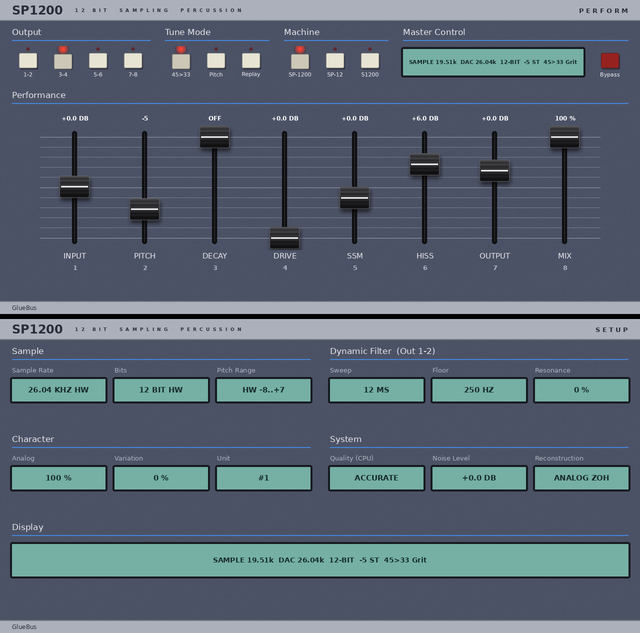
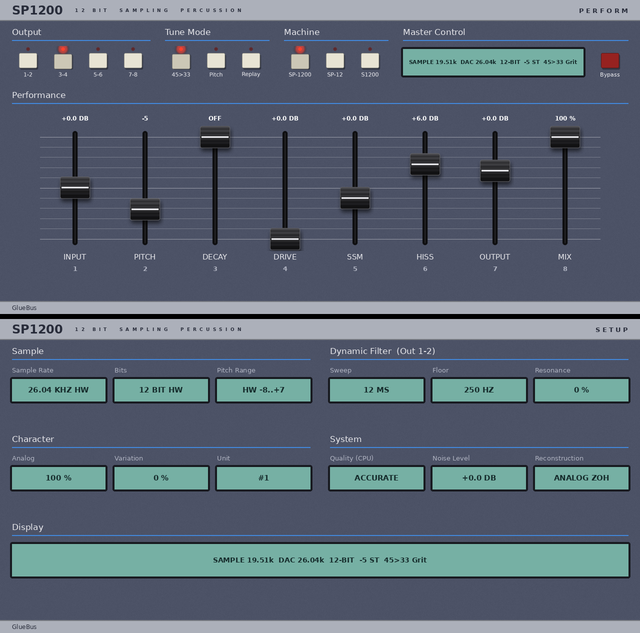
SP1200 skin: sliders as three 84 px, 128-frame filmstrip pieces
The 64-frame half strips were sliced wrongly on the MPC X (caps misplaced,
gaps, doubled caps). Use only the filmstrip format already proven on the
device (128 square frames, <= 84 px wide, knob inside its parent box).

Claude-Session: https://claude.ai/code/session_01XRqyjua6wzinB9NqNDDbhg

diff --git a/SP1200-MPC/tools/make_skin.py b/SP1200-MPC/tools/make_skin.py
@@ -80,18 +80,18 @@ def fader_frame(t):
     d.rectangle([cx - cw + 3 * s, cy - 1.5 * s, cx + cw - 3 * s, cy + 1.5 * s], fill=rgba(PRINT))   # white index line
     return im.resize((FW, FH), Image.LANCZOS)
 
-# The MPC can't load very tall images (the GPU's texture limit): a 128-frame strip of 250 x 250 frames (32 000 px)
-# lost its upper frames on the device, so the cap vanished as the slider went up. Each slider is drawn as two halves
-# (top / bottom, 125 x 125 square frames), each strip 64 frames = 8000 px, under the limit.
-FADER_FRAMES = 64
-def fader_halves():
-    HALF = FH // 2
-    top = Image.new("RGBA", (HALF, HALF * FADER_FRAMES), (0, 0, 0, 0)); bot = top.copy()
-    x0 = (HALF - FW) // 2
-    for f in range(FADER_FRAMES):
-        fr = fader_frame(f / (FADER_FRAMES - 1))
-        top.paste(fr.crop((0, 0, FW, HALF)), (x0, f * HALF)); bot.paste(fr.crop((0, HALF, FW, 2 * HALF)), (x0, f * HALF))
-    return top, bot
+# Slider graphics: only the filmstrip format already proven on the MPC X (Da Clip Pads, Da Lufs Plug): 128 square
+# frames, numFrames 127, at most 84 px wide (10 752 px tall), the knob fully inside its parent box. A 250 px wide
+# strip (32 000 px) lost its upper frames on the device, and 64-frame half strips were sliced wrongly. So each
+# slider is three stacked 84 px pieces of one fader drawing, each its own 128-frame strip bound to the same value.
+PIECE, NPIECES = 84, 3
+def fader_pieces():
+    strips = [Image.new("RGBA", (PIECE, PIECE * FRAMES), (0, 0, 0, 0)) for _ in range(NPIECES)]
+    x0 = (PIECE - FW) // 2
+    for f in range(FRAMES):
+        fr = fader_frame(f / (FRAMES - 1))
+        for k in range(NPIECES): strips[k].paste(fr.crop((0, k * PIECE, FW, (k + 1) * PIECE)), (x0, f * PIECE))
+    return strips
 
 def key_image(on, w, h, label=None, red=False):
     """A square SP-1200 key: an LED above a cream (or red) key, the label printed under it."""
@@ -151,11 +151,10 @@ def load_keys():
 P = load_keys()
 
 # ---------- layout ----------
-FW, FH = 76, 250
+FW, FH = 76, 252                 # 3 pieces x 84 px
 FS = FH
 FY = 24
 TRAVEL0, TRAVEL1 = 24, FH - 24
-HALF = FH // 2
 TABS = ["PERFORM", "SETUP"]
 SLIDERS = [("input", "INPUT"), ("pitch", "PITCH"), ("decay", "DECAY"), ("drive", "DRIVE"),
            ("ssm", "SSM"), ("hiss", "HISS"), ("output", "OUTPUT"), ("mix", "MIX")]
@@ -216,10 +215,10 @@ BG_ITEMS[T].append(("lcd", 806, 98, 360, 52, None))
 text(T, "Display", "info", 812, 103, 348, 42, 14)
 red_key(T, "Bypass", "bypass", 1188, 92)
 section(T, 24, 1256, 180, "Performance")
-_top, _bot = fader_halves(); img("sp_fader_top.png", _top); img("sp_fader_bot.png", _bot)
-fknob = lambda image, y: comp("Knob", "Knob", {"version": 5, "knobType": "FilmStrip", "filmStrip": image, "numFrames": FADER_FRAMES - 1,
-                              "invert": False, "dragOrientation": "Vertical", "handleName": "Data"}, bounds(((BOXW - HALF) // 2, y, HALF, HALF)))
-defn("spSlider", definition(CTRL(), [focus((0, 0, BOXW, BOXH)), fknob("sp_fader_top.png", FY), fknob("sp_fader_bot.png", FY + HALF),
+for k, st in enumerate(fader_pieces()): img(f"sp_fader{k}.png", st)
+fknob = lambda k: comp("Knob", "Knob", {"version": 5, "knobType": "FilmStrip", "filmStrip": f"sp_fader{k}.png", "numFrames": NUMFRAMES,
+                       "invert": False, "dragOrientation": "Vertical", "handleName": "Data"}, bounds(((BOXW - PIECE) // 2, FY + k * PIECE, PIECE, PIECE)))
+defn("spSlider", definition(CTRL(), [focus((0, 0, BOXW, BOXH))] + [fknob(k) for k in range(NPIECES)] + [
      label("Value", 14, VALUE_COL, (0, 0, BOXW, 22), case="Upper Case")]))
 for i, (key, lab) in enumerate(SLIDERS):
     place(T, lab, "spSlider", P[key], SX0 + i * SPITCH, SLIDER_Y - FY, BOXW, BOXH, "slider", key)
@@ -385,9 +384,9 @@ def preview(outdir):
             x, y, w, h = int(pl["x"]), int(pl["y"]), int(pl["w"]), int(pl["h"]); p = pl["param"]; v = vals[p]
             k = pl["kind"]
             if k == "slider":
-                fr = round(v * (FADER_FRAMES - 1))
-                for k2, name in enumerate(("sp_fader_top.png", "sp_fader_bot.png")):
-                    im.alpha_composite(im_(name).crop((0, fr * HALF, HALF, fr * HALF + HALF)), (int(x + (BOXW - HALF) / 2), y + FY + k2 * HALF))
+                fr = round(v * NUMFRAMES)
+                for k2 in range(NPIECES):
+                    im.alpha_composite(im_(f"sp_fader{k2}.png").crop((0, fr * PIECE, PIECE, fr * PIECE + PIECE)), (int(x + (BOXW - PIECE) / 2), y + FY + k2 * PIECE))
                 text_c(d, x + w / 2, y + 11, txt[p].upper(), font(12), (255, 255, 255))
             elif k == "key":
                 key, i = pl["extra"]; n = len([q for q in PLACED[tab] if q["kind"] == "key" and q["extra"][0] == key])
